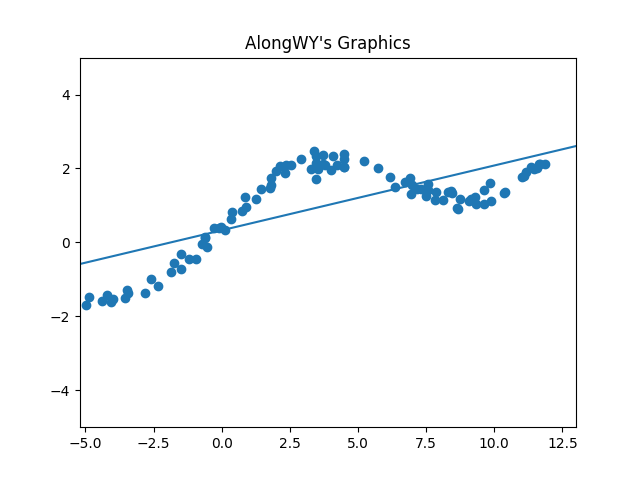
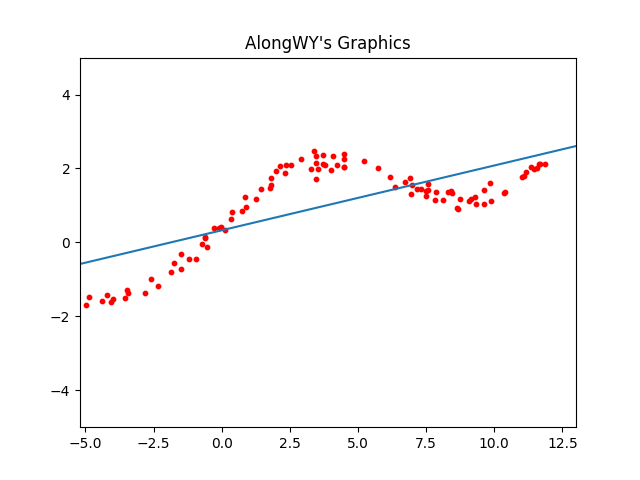
change the size and color

Changed region(s): [[0.125, 0.3125, 0.8125, 0.6562], [0.8125, 0.3125, 0.875, 0.375]]

diff --git a/Task1/AlongWY.py b/Task1/AlongWY.py
@@ -38,7 +38,7 @@ PointsX = np.linspace(-5.5,13.0,n,endpoint=True)
 PointsY = func(PointsX)
 
 #散点绘制
-plt.scatter(X,Y)
+plt.scatter(X,Y,c='r', s=10, marker='o')
 
 #所得函数绘制
 plt.plot(PointsX,PointsY)
